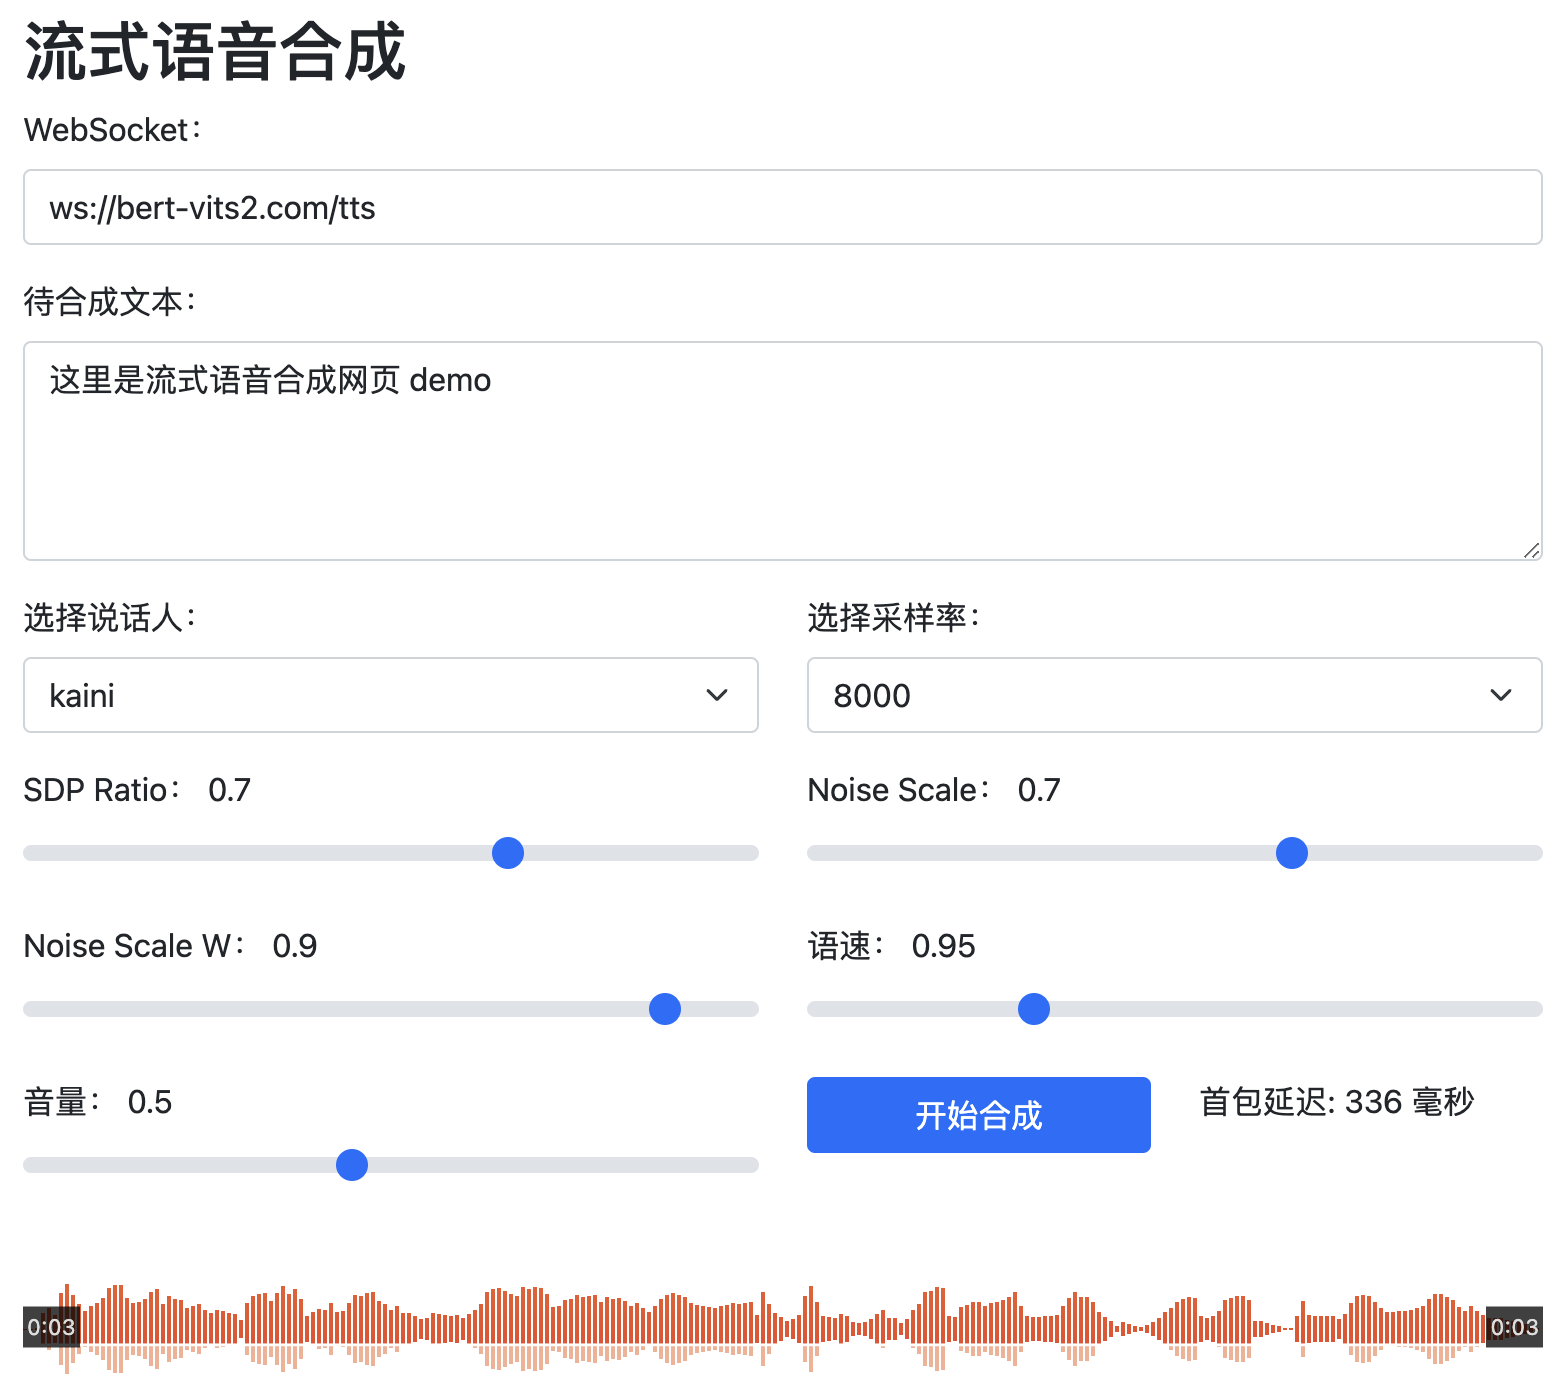
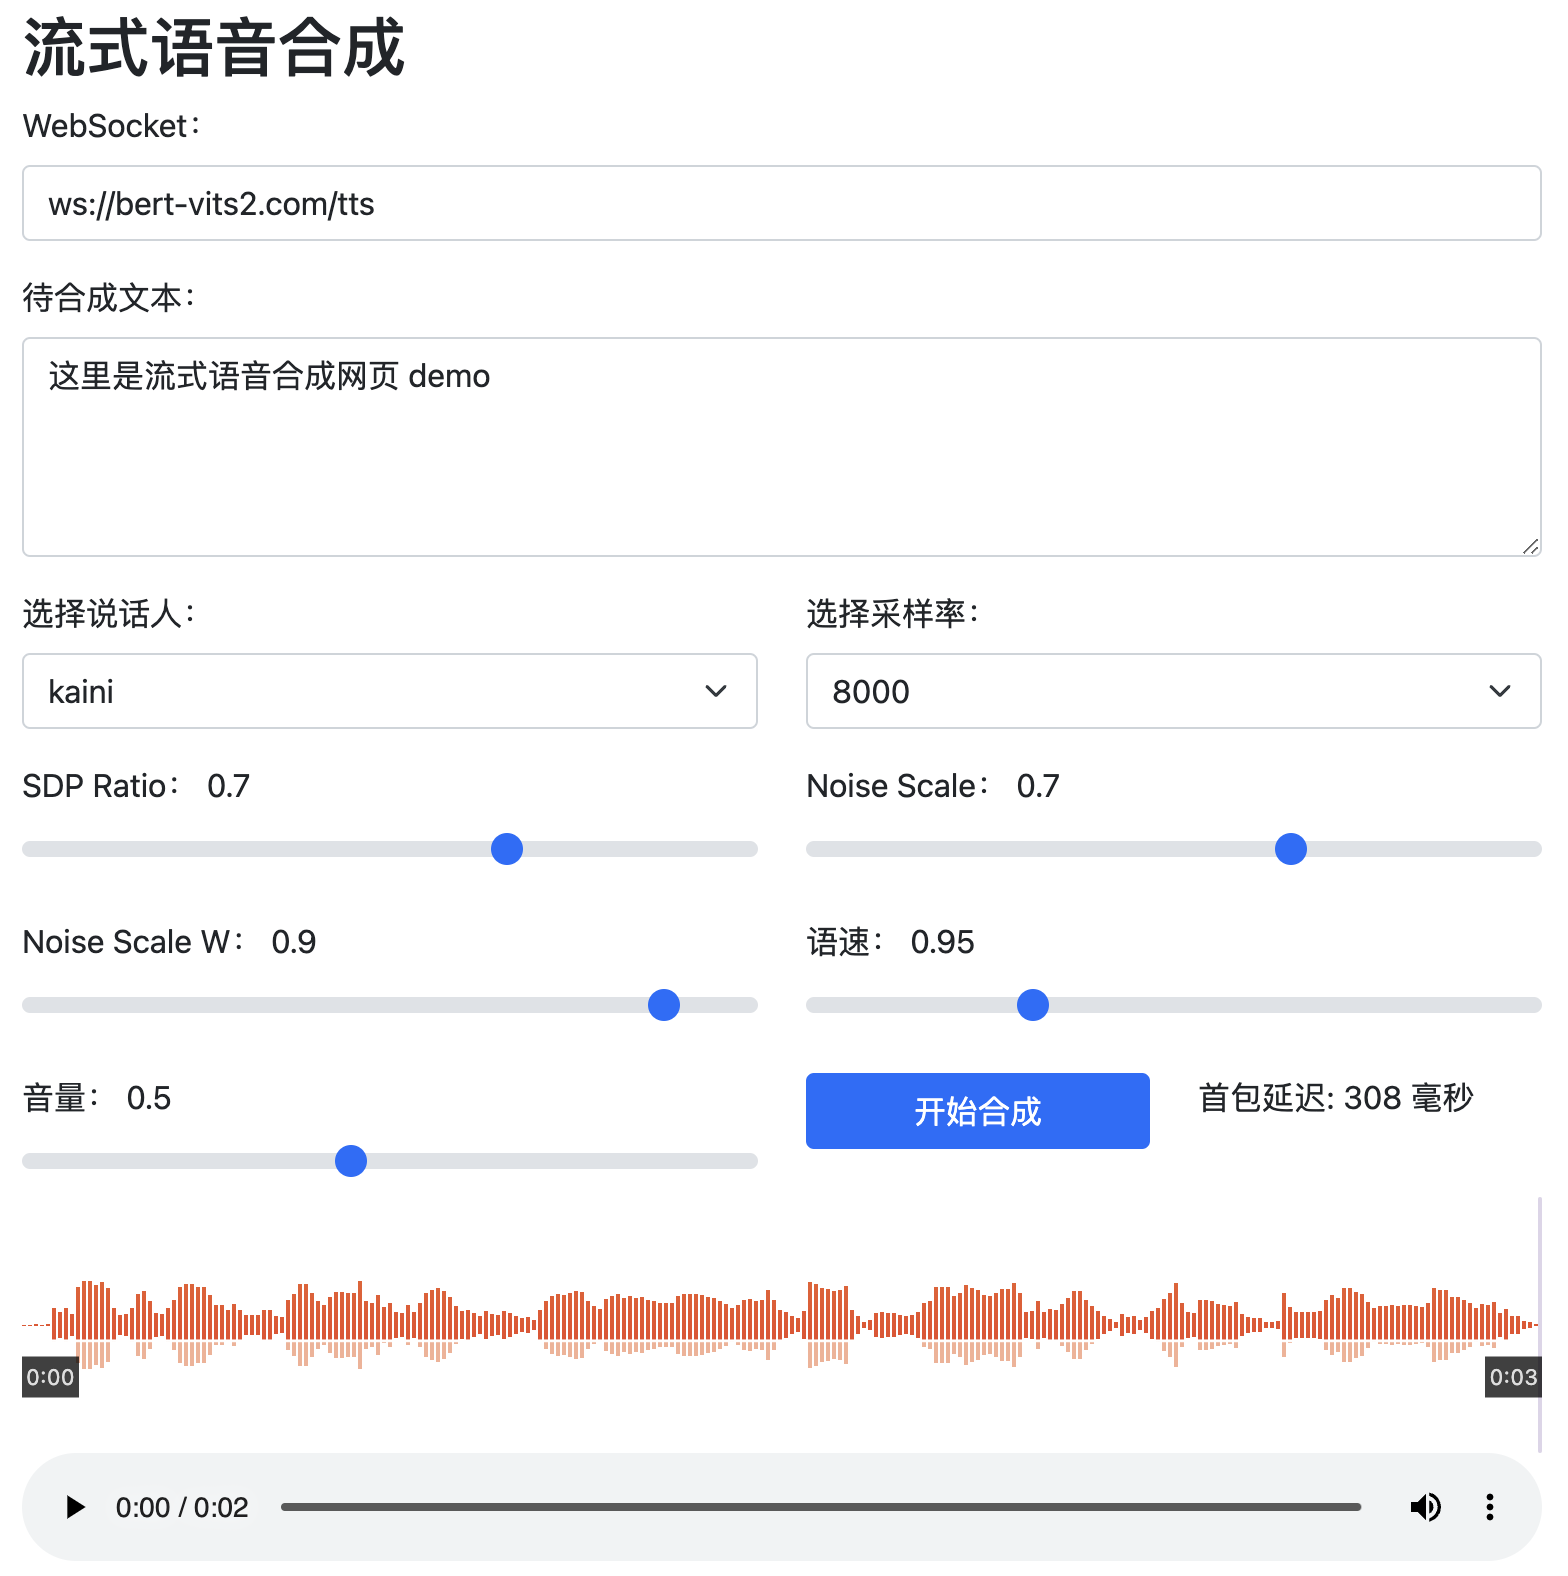
add media controls and cursor

diff --git a/index.html b/index.html
@@ -97,7 +97,7 @@
             <input type="range" class="form-range" min="0.5" max="2.0" value="0.95" step="0.05" id="speed" onchange="document.getElementById('speedShow').innerHTML=value">
             <div class="row">
                 <div class="col">
-                    <button class="btn btn-primary mt-3 w-100" id="Button">开始合成</button>
+                    <button class="btn btn-primary mt-3 w-100" id="button">开始合成</button>
                 </div>
                 <div class="col">
                     <p class="mt-3" id="delayInfo">首包延迟: </p>
@@ -113,7 +113,7 @@
     </div>
 
     <script>
-        var button = document.getElementById("Button");
+        var button = document.getElementById("button");
         var delayInfo = document.getElementById("delayInfo");
 
         const canvas = document.createElement('canvas')
@@ -138,8 +138,11 @@
         const wavesurfer = WaveSurfer.create({
             container: '#waveform',
             waveColor: gradient,
+            mediaControls: true,
             progressColor: progressGradient,
             barWidth: 2,
+            cursorWidth: 2,
+            cursorColor: '#ddd5e9',
         })
 
         button.addEventListener("click", function() {
@@ -163,8 +166,10 @@
             player.volume(volume);
 
             socket.onmessage = function(event) {
-                var delay = performance.now() - startTime;
-                delayInfo.textContent = "首包延迟: " + Math.ceil(delay) + " 毫秒";
+                if (delay == 0) {
+                    delay = performance.now() - startTime;
+                    delayInfo.textContent = "首包延迟: " + Math.ceil(delay) + " 毫秒";
+                }
                 player.feed(event.data);
                 wavesurfer.load(player.url);
             };
@@ -180,6 +185,7 @@
                     length_scale: 1 / speed,
                 }));
                 startTime = performance.now();
+                delay = 0;
             };
         });
 
